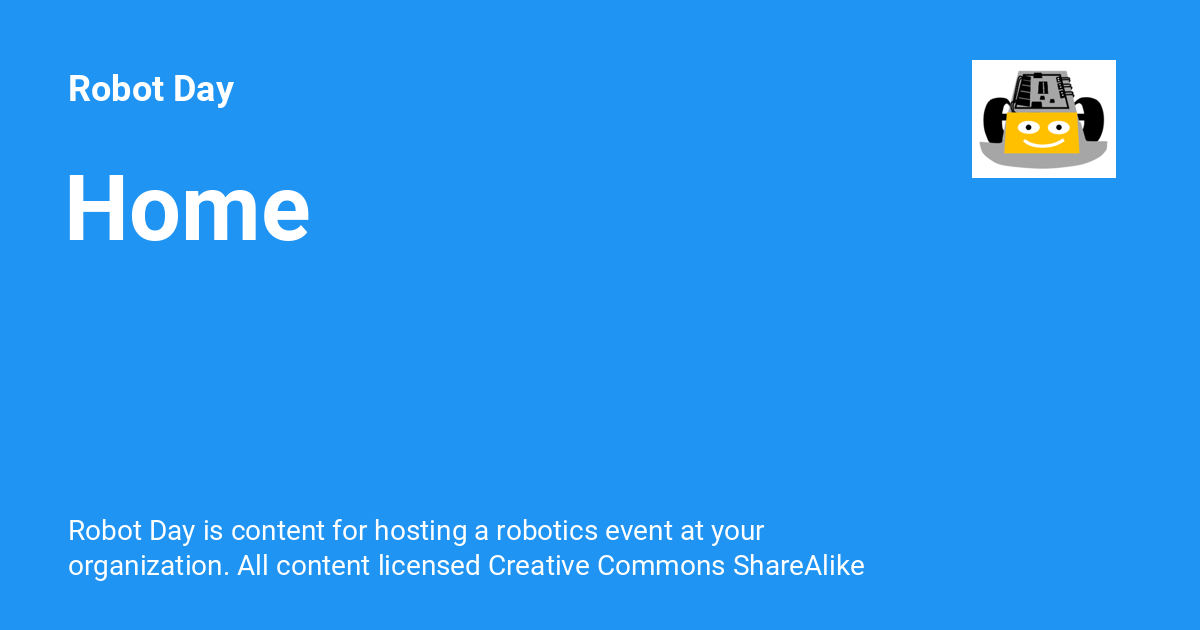
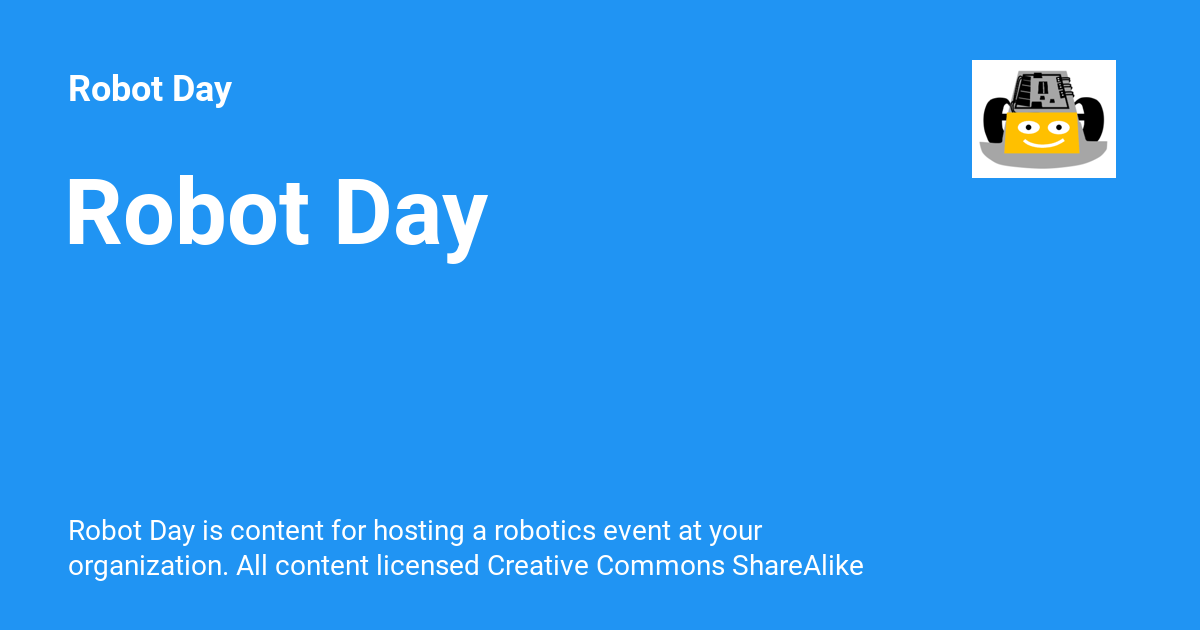
Deployed 056a1d1 with MkDocs version: 1.5.3

Changed region(s): [[0.185, 0.8143, 0.7092, 0.9349], [0.0617, 0.2714, 0.4317, 0.4222], [0.1233, 0.1206, 0.2158, 0.181]]

diff --git a/index.html b/index.html
@@ -69,7 +69,7 @@
       
         <meta  property="og:type"  content="website" >
       
-        <meta  property="og:title"  content="Home" >
+        <meta  property="og:title"  content="Robot Day" >
       
         <meta  property="og:description"  content="Robot Day is content for hosting a robotics event at your organization. All content licensed Creative Commons ShareAlike Attribution Noncommercial" >
       
@@ -85,7 +85,7 @@
       
         <meta  name="twitter:card"  content="summary_large_image" >
       
-        <meta  name="twitter:title"  content="Home" >
+        <meta  name="twitter:title"  content="Robot Day" >
       
         <meta  name="twitter:description"  content="Robot Day is content for hosting a robotics event at your organization. All content licensed Creative Commons ShareAlike Attribution Noncommercial" >
       
@@ -145,7 +145,7 @@
         <div class="md-header__topic" data-md-component="header-topic">
           <span class="md-ellipsis">
             
-              Home
+              Robot Day
             
           </span>
         </div>
@@ -274,7 +274,7 @@
         
   
   <span class="md-ellipsis">
-    Home
+    Robot Day
   </span>
   
 

diff --git a/about/index.html b/about/index.html
@@ -267,7 +267,7 @@
         
   
   <span class="md-ellipsis">
-    Home
+    Robot Day
   </span>
   
 
@@ -869,7 +869,7 @@ A huge smile breaks out on the girl.</p>
       <nav class="md-footer__inner md-grid" aria-label="Footer" >
         
           
-          <a href=".." class="md-footer__link md-footer__link--prev" aria-label="Previous: Home">
+          <a href=".." class="md-footer__link md-footer__link--prev" aria-label="Previous: Robot Day">
             <div class="md-footer__button md-icon">
               
               <svg xmlns="http://www.w3.org/2000/svg" viewBox="0 0 24 24"><path d="M20 11v2H8l5.5 5.5-1.42 1.42L4.16 12l7.92-7.92L13.5 5.5 8 11h12Z"/></svg>
@@ -879,7 +879,7 @@ A huge smile breaks out on the girl.</p>
                 Previous
               </span>
               <div class="md-ellipsis">
-                Home
+                Robot Day
               </div>
             </div>
           </a>

diff --git a/404.html b/404.html
@@ -230,7 +230,7 @@
         
   
   <span class="md-ellipsis">
-    Home
+    Robot Day
   </span>
   
 

diff --git a/activities/batteries/index.html b/activities/batteries/index.html
@@ -267,7 +267,7 @@
         
   
   <span class="md-ellipsis">
-    Home
+    Robot Day
   </span>
   
 

diff --git a/activities/battery-test/index.html b/activities/battery-test/index.html
@@ -267,7 +267,7 @@
         
   
   <span class="md-ellipsis">
-    Home
+    Robot Day
   </span>
   
 

diff --git a/activities/breadboard/index.html b/activities/breadboard/index.html
@@ -267,7 +267,7 @@
         
   
   <span class="md-ellipsis">
-    Home
+    Robot Day
   </span>
   
 

diff --git a/activities/code/index.html b/activities/code/index.html
@@ -262,7 +262,7 @@
         
   
   <span class="md-ellipsis">
-    Home
+    Robot Day
   </span>
   
 

diff --git a/activities/computer-vision/index.html b/activities/computer-vision/index.html
@@ -267,7 +267,7 @@
         
   
   <span class="md-ellipsis">
-    Home
+    Robot Day
   </span>
   
 

diff --git a/activities/displays/index.html b/activities/displays/index.html
@@ -267,7 +267,7 @@
         
   
   <span class="md-ellipsis">
-    Home
+    Robot Day
   </span>
   
 

diff --git a/activities/donkey-car/index.html b/activities/donkey-car/index.html
@@ -267,7 +267,7 @@
         
   
   <span class="md-ellipsis">
-    Home
+    Robot Day
   </span>
   
 

diff --git a/activities/h-bridge/index.html b/activities/h-bridge/index.html
@@ -267,7 +267,7 @@
         
   
   <span class="md-ellipsis">
-    Home
+    Robot Day
   </span>
   
 

diff --git a/activities/index.html b/activities/index.html
@@ -267,7 +267,7 @@
         
   
   <span class="md-ellipsis">
-    Home
+    Robot Day
   </span>
   
 
